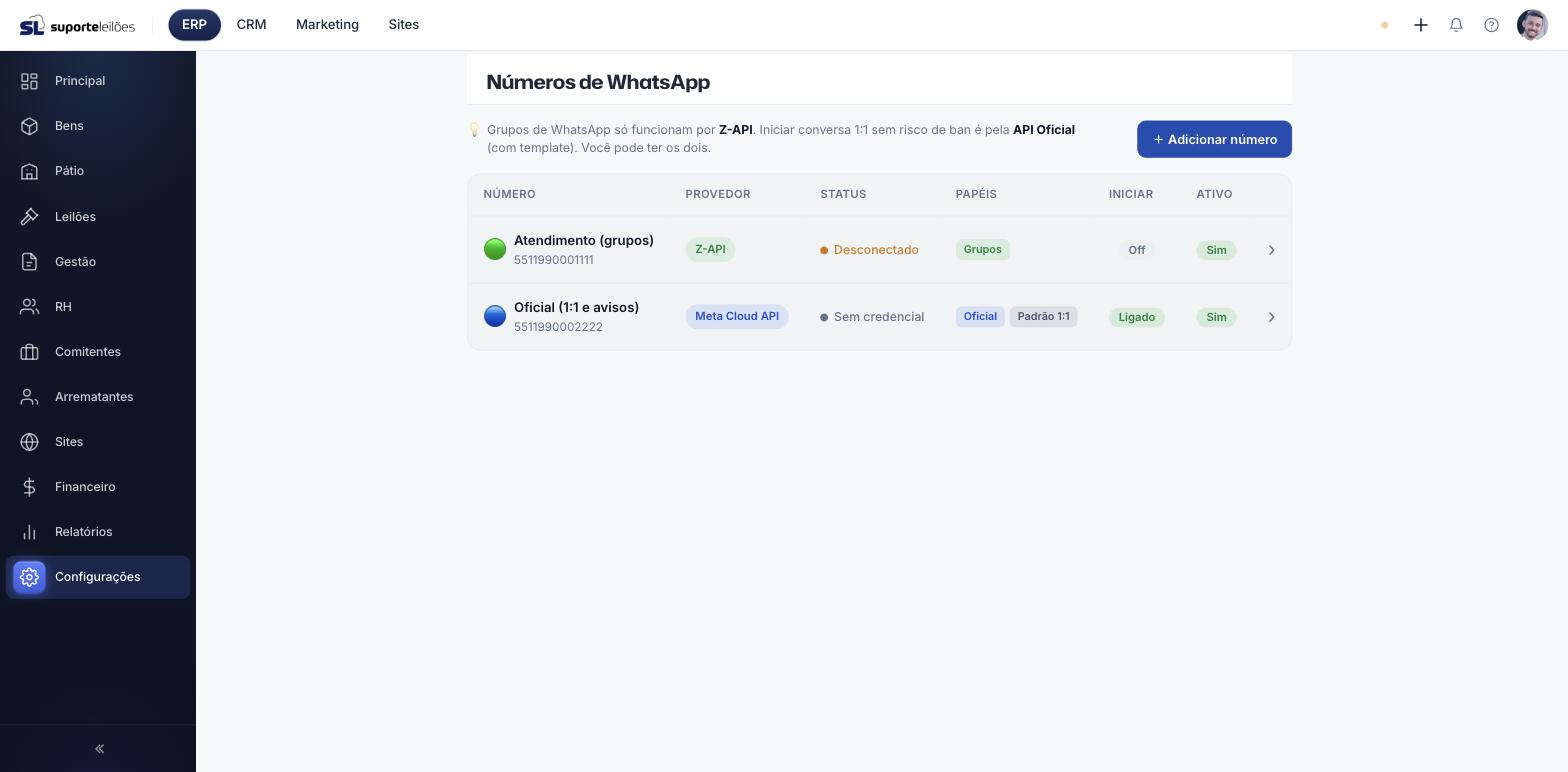
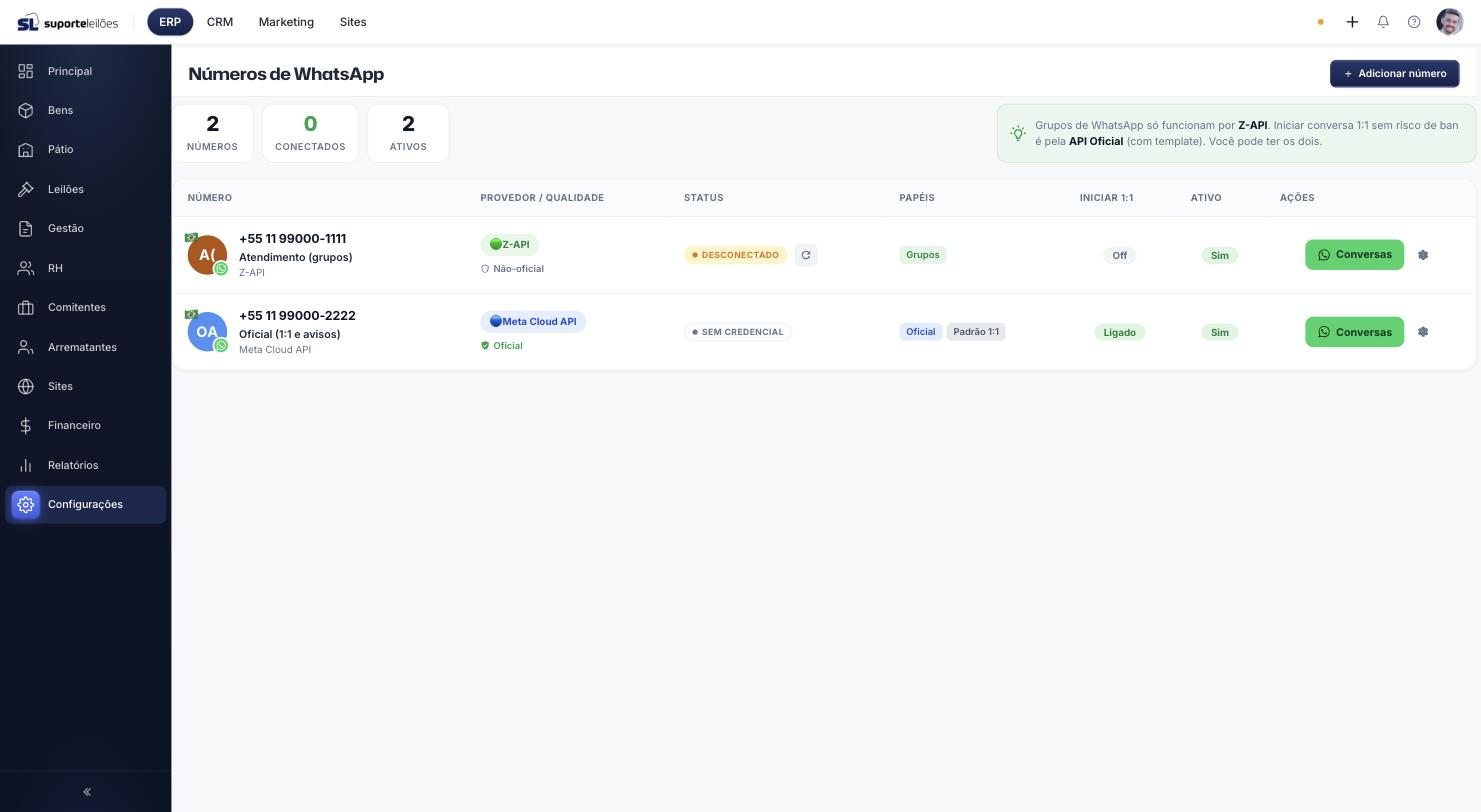
docs(crm): WhatsApp Web + Add-ons + Aprovadores do bot (com prints)
- crm-configuracoes-whatsapp: lista redesenhada + nova secao "Conversas do
  numero (WhatsApp Web)" com modo simulacao e casos de uso (prints novos).
- crm-configuracoes-bot-addons (NOVO): add-ons estilo MCP; tipos HTTP/ia-worker/
  nativo; passo a passo HTTP + caso "Consulta CEP" (ViaCEP); atribuicao a grupos/
  numeros.
- crm-configuracoes-bot-aprovadores (NOVO): fluxo aprovar <token>, permissao
  exclusiva CRM_BOT_APROVADOR_GERIR.
- _interno/console-bot-operacional: prints (aprovadores, add-ons, HTTP) + casos de
  uso (leitura na hora / escrita com aprovacao).

diff --git a/docs/crm/crm-configuracoes-bot-addons.md b/docs/crm/crm-configuracoes-bot-addons.md
@@ -1,0 +1,91 @@
+---
+title: Add-ons do bot
+sidebar_position: 9
+---
+
+# Add-ons do bot
+
+Os **add-ons** dão **capacidades extras** ao bot de atendimento — no estilo de "plugins/MCP". Cada add-on acrescenta uma ou mais **ferramentas** que o bot pode usar durante uma conversa (ex.: consultar um CEP, um rastreio, uma API própria da empresa). Você configura tudo **sem escrever código**.
+
+## Como acessar
+
+**ERP** → **Configurações** → **Integrações** → **Add-ons do bot**.
+
+![Lista de add-ons do bot](/img/manual/crm/bot-addons-lista.jpg)
+
+A lista mostra, por add-on: o **nome**, o **tipo**, o **escopo**, quantas **atribuições** ele tem (grupos/números onde está ativo) e se está **ativo**.
+
+## O que é um add-on
+
+Pense no bot como um atendente que, por padrão, sabe conversar e consultar o que já existe no sistema. Um **add-on** ensina uma **habilidade nova** a esse atendente. Quando um cliente pergunta algo que a habilidade cobre, o bot **usa a ferramenta** do add-on, pega o resultado e responde naturalmente.
+
+### Tipos de add-on
+
+| Tipo | O que faz |
+|---|---|
+| **HTTP (integração externa)** | Chama uma **API externa** (ou interna) que você configura: URL, método, cabeçalhos e parâmetros. **Sem código.** É o tipo mais usado. |
+| **ia-worker (operação)** | Consulta a **operação/infraestrutura** via agente. **Exclusivo da gerência** (não aparece para leiloeiros). |
+| **Nativo** | Ferramenta **embutida** no sistema (feita por código pela nossa equipe). |
+
+### Escopo: global × gerência
+
+- **Global (ERP + leiloeiros):** o add-on vale para os leiloeiros também. Use para habilidades úteis a qualquer negócio (consultar CEP, rastreio, etc.).
+- **Gerência (exclusivo nosso):** só funciona no ambiente da gerência. Use para coisas internas da nossa operação.
+
+:::info Um add-on só age onde é atribuído
+Depois de criado, o add-on fica **inerte** até você **atribuí-lo** a um ou mais **grupos/números** de WhatsApp. É a atribuição que "liga" a habilidade naquele canal.
+:::
+
+## Criar um add-on HTTP (passo a passo)
+
+Clique em **Novo add-on**. Vamos usar um exemplo real: um add-on que **consulta um CEP** pela API pública [ViaCEP](https://viacep.com.br).
+
+![Novo add-on HTTP — Consulta CEP](/img/manual/crm/bot-addons-http.jpg)
+
+1. **Nome:** um rótulo para você (ex.: `Consulta CEP`).
+2. **Tipo:** **HTTP (integração externa)**.
+3. **Escopo:** **Global** (serve para qualquer leiloeiro).
+4. **Ferramenta (o que o bot enxerga):**
+   - **Nome da ferramenta:** um identificador técnico, em minúsculas com `_` (ex.: `consultar_cep`). É por esse nome que o bot "chama" a habilidade.
+   - **Descrição (quando o bot deve usar):** explique em linguagem clara **quando** usar — o bot decide com base nisso (ex.: *"Consulta o endereço (rua, bairro, cidade, UF) a partir de um CEP usando a API pública ViaCEP."*).
+5. **Chamada HTTP:**
+   - **URL:** o endereço da API. Use **`{param}`** para interpolar valores que o bot preenche. Ex.: `https://viacep.com.br/ws/{cep}/json/`
+   - **Método:** `GET` (para consultas). `POST`/`PUT`/`PATCH` quando for enviar dados.
+   - **Cabeçalhos:** pares chave/valor (ex.: `Authorization: Bearer ...`) — para APIs que exigem autenticação. No exemplo do CEP não é preciso.
+   - **Parâmetros (o bot preenche):** liste cada valor que a ferramenta aceita — **nome** (ex.: `cep`), **tipo** (string/number/boolean), se é **obrigatório** e uma **descrição**. O nome do parâmetro é o que casa com o `{param}` da URL.
+   - **Body (JSON, opcional):** para `POST`/`PUT`, o corpo da requisição, também com `{param}` (ex.: `{"codigo": "{codigo}"}`).
+6. Clique em **Salvar**.
+
+:::tip Interpolação
+Onde você escreve `{cep}` na URL (ou no body), o bot substitui pelo valor do **parâmetro** de mesmo nome que ele preencheu a partir da conversa.
+:::
+
+### Atribuir a grupos/números
+
+Depois de salvar, aparece a seção **Atribuições**. Escolha **Grupo** ou **Número**, selecione qual e clique em **Atribuir**. A partir daí o bot passa a oferecer aquela habilidade **naquele canal**. Remova a atribuição a qualquer momento pelo **✕** na etiqueta.
+
+## Caso de uso completo — "Consulta CEP"
+
+1. Você cria o add-on `Consulta CEP` (HTTP, global) com a ferramenta `consultar_cep`, URL `https://viacep.com.br/ws/{cep}/json/`, parâmetro `cep` (string, obrigatório).
+2. Atribui ao **número/grupo** de atendimento.
+3. No WhatsApp, o cliente escreve: *"qual o endereço do CEP 01001-000?"*.
+4. O bot entende, chama `consultar_cep` com `cep=01001000`, recebe o JSON da ViaCEP e responde: *"Esse CEP é da Praça da Sé, Sé — São Paulo/SP."*
+
+## Regras de negócio
+
+- Um add-on **sem atribuição** não faz nada — precisa estar ligado a um grupo/número.
+- Add-ons **HTTP** e **globais** valem para leiloeiros; **ia-worker** e **gerência** são exclusivos da nossa operação.
+- O **Body** precisa ser um **JSON válido** — o sistema recusa salvar se estiver malformado.
+- **Nome da ferramenta** e **URL** são obrigatórios no tipo HTTP.
+
+## Erros comuns
+
+- **"body_template não é um JSON válido"** — revise o JSON do campo Body (aspas, vírgulas).
+- **O bot não usa a ferramenta** — a **descrição** está vaga; deixe claro *quando* usar. Confira também se o add-on está **ativo** e **atribuído** ao canal certo.
+- **A API externa recusa a chamada** — falta um **cabeçalho** de autenticação, ou a URL/parâmetro estão errados.
+
+## Veja também
+
+- [WhatsApp — números, provedores e guardrail](./crm-configuracoes-whatsapp.md)
+- [Aprovadores do bot](./crm-configuracoes-bot-aprovadores.md)
+- [Chatbot](./crm-configuracoes-chatbot.md)

diff --git a/docs/crm/crm-configuracoes-whatsapp.md b/docs/crm/crm-configuracoes-whatsapp.md
@@ -13,7 +13,15 @@ Esta tela é onde você conecta os **números de WhatsApp** do seu negócio ao C
 
 ![Números de WhatsApp](/img/manual/crm/whatsapp-numeros.jpg)
 
-Cada linha mostra o **número**, o **provedor**, o **status** da conexão, os **papéis**, se ele pode **iniciar** conversas e se está **ativo**.
+A tela ocupa a largura toda e mostra, no topo, um resumo rápido (**quantos números**, quantos **conectados** e quantos **ativos**). Cada linha traz:
+
+- o **avatar** do número com o selo do WhatsApp e a bandeira do país;
+- o **telefone** em destaque, o **nome** interno e o **provedor**;
+- o **provedor / qualidade** (oficial × não-oficial);
+- o **status** da conexão (verde **Conectado**, âmbar **Desconectado**, cinza **Sem credencial**);
+- os **papéis** (grupos / oficial / padrão 1:1);
+- se pode **iniciar** conversas 1:1 e se está **ativo**;
+- os botões de **ação**: **Conversas** (abre o "WhatsApp Web" do número — veja abaixo) e a engrenagem para **editar**.
 
 ## A ideia central: número oficial × não-oficial
 
@@ -80,8 +88,48 @@ Cada número tem um **webhook exclusivo**. Você cola essa URL no painel do prov
 - "Desconectado" na Z-API costuma significar que falta **escanear o QR code**; "Sem credencial" no oficial significa que faltam as chaves da Meta.
 - Não ligue "Permitir iniciar conversa" num número não-oficial para disparo em massa — é o caminho mais rápido para o banimento.
 
+## Conversas do número (WhatsApp Web)
+
+Cada número tem uma tela de **conversas no estilo do WhatsApp Web**, para você **ver e responder** as mensagens daquele número direto do ERP — sem abrir o celular. Clique no botão **Conversas** na linha do número.
+
+![WhatsApp Web do número — lista de conversas e conversa aberta](/img/manual/crm/whatsapp-web.jpg)
+
+A tela tem duas colunas, igual ao WhatsApp Web:
+
+- **À esquerda**, a **lista de conversas**: foto, nome/telefone do contato, prévia da última mensagem, horário e o **contador de não lidas**. No topo há a **busca** por nome ou número.
+- **À direita**, a **conversa aberta**: cabeçalho com o contato, o **histórico** com balões (mensagens recebidas à esquerda, suas à direita), horários e os **tiques de entrega**, e a **barra de digitação** embaixo (emoji, anexo e o botão de enviar).
+
+Para responder, é só **digitar e apertar Enter** (ou o botão verde de enviar). A mensagem sai pelo **mesmo número** que recebeu a conversa.
+
+:::tip Quem pode acessar
+A tela de conversas fica disponível para qualquer usuário do ERP (perfil colaborador). O envio usa o número da própria conversa, respeitando o provedor configurado.
+:::
+
+### Modo simulação (para testar sem conectar)
+
+Quando um número **ainda não tem uma conexão real** de WhatsApp (sem credenciais válidas), a tela entra em **modo simulação** — sinalizado por uma faixa amarela no topo:
+
+> 🧪 **Modo simulação** — este número não tem uma conexão real de WhatsApp, então as conversas são de exemplo e **nada é enviado de verdade**.
+
+Nesse modo você vê **conversas de exemplo** e pode **testar o envio**: sua mensagem aparece no histórico e o "contato" responde com uma mensagem automática — tudo **local**, sem nenhuma chamada externa. É ideal para conhecer a tela e treinar a equipe.
+
+Assim que o número recebe **credenciais válidas** (Z-API conectada ou API Oficial configurada), ele passa **automaticamente** para o **modo real**: as conversas passam a ser as de verdade e o envio vai para o WhatsApp do contato. **Não há botão para "ligar" o envio real** — é o próprio provedor conectado que define o modo, o que evita disparo acidental durante testes.
+
+:::info Como funciona o interruptor (resumo)
+- **Sem credencial usável no número → simulação** (conversas de exemplo, envio só local).
+- **Com credencial usável → real** (conversas reais, envio de verdade).
+:::
+
+### Casos de uso
+
+- **Responder um cliente na hora:** o arrematante mandou uma dúvida no WhatsApp; o atendente abre **Conversas** do número, lê o histórico e responde sem sair do ERP.
+- **Acompanhar vários números:** com um número para grupos (Z-API) e outro oficial (avisos), cada um tem sua própria caixa de conversas separada.
+- **Treinar a equipe:** em um número novo (ainda sem conexão), use o **modo simulação** para praticar o atendimento antes de conectar de verdade.
+
 ## Veja também
 
+- [Add-ons do bot](./crm-configuracoes-bot-addons.md) — dar novas capacidades ao bot (integrações HTTP sem código).
+- [Aprovadores do bot](./crm-configuracoes-bot-aprovadores.md) — quem pode autorizar operações sensíveis.
 - [Integrações externas](./crm-configuracoes-integracoes-config.md) — chaves dos serviços (e-mail, IA, SMS).
 - [Chatbot](./crm-configuracoes-chatbot.md)
 - [Biblioteca de mensagens](./crm-biblioteca-mensagens.md) — templates usados nos disparos.

diff --git a/docs/crm/crm-configuracoes-bot-aprovadores.md b/docs/crm/crm-configuracoes-bot-aprovadores.md
@@ -1,0 +1,64 @@
+---
+title: Aprovadores do bot
+sidebar_position: 10
+---
+
+# Aprovadores do bot
+
+Alguns pedidos feitos ao bot em um **grupo de WhatsApp** são **sensíveis** — operações de **escrita** ou **destrutivas**. Em vez de executar na hora, o bot **enfileira** e pede uma **autorização humana**. Os **aprovadores** são as pessoas que podem dar essa autorização.
+
+## Como acessar
+
+**ERP** → **Configurações** → **Integrações** → **Aprovadores do bot**.
+
+![Aprovadores do bot](/img/manual/crm/bot-aprovadores.jpg)
+
+A tela lista quem está cadastrado (nome + WhatsApp), a **situação** (ativo/inativo) e permite **adicionar** e **remover**.
+
+## Para que serve
+
+O bot pode ser configurado com habilidades que **alteram** algo (ver [Add-ons do bot](./crm-configuracoes-bot-addons.md)). Por segurança, quando o pedido é de **escrita**, o bot **não executa sozinho**: ele responde no grupo com um **token** e espera alguém autorizado confirmar.
+
+O fluxo, no grupo, é assim:
+
+1. Alguém pede uma operação sensível ao bot.
+2. O bot **bloqueia** e responde, por exemplo:
+   > ⚠ *Ação sensível bloqueada* (exige aprovação): responda **aprovar A1B2**
+3. Um **aprovador** responde no grupo: `aprovar A1B2`.
+4. O sistema confere se **quem respondeu está na lista de aprovadores** (pelo número de WhatsApp). Se estiver, a operação é executada; se não, é recusada.
+
+É por isso que o telefone cadastrado precisa ser **exatamente o número de WhatsApp** que a pessoa usa no grupo — é por ele que o sistema reconhece a aprovação.
+
+## Cadastrar um aprovador
+
+1. Informe o **Nome** e o **WhatsApp (com DDD)** — ex.: `5538999160908`.
+2. Clique em **Adicionar aprovador**.
+3. A pessoa aparece na lista como **Ativa**. Você pode **desativar** (mantém o cadastro, mas ela deixa de poder aprovar) ou **remover**.
+
+:::danger Antes de depender do fluxo de aprovação
+Cadastre pelo menos **um** aprovador (o ideal é o seu próprio WhatsApp). Sem nenhum aprovador ativo, o `aprovar <token>` sempre responde "não autorizado" e a operação nunca é executada.
+:::
+
+## Permissão exclusiva
+
+Gerenciar aprovadores é uma ação **protegida por uma permissão própria**: **`CRM_BOT_APROVADOR_GERIR`** (ou o superusuário). De propósito, **um administrador comum não abre esta tela** nem consegue se auto-adicionar — se qualquer admin pudesse se incluir, o controle não teria valor.
+
+Quem não tem a permissão vê uma tela de **acesso restrito**, explicando qual permissão é necessária.
+
+## Regras de negócio
+
+- Só quem tem **`CRM_BOT_APROVADOR_GERIR`** (ou superusuário) gerencia a lista.
+- A aprovação é reconhecida **pelo número de WhatsApp** — precisa bater com o número que respondeu no grupo.
+- Cada `aprovar <token>` libera **apenas aquela** operação pendente (não é uma autorização geral).
+- Um aprovador **inativo** não consegue aprovar.
+
+## Erros comuns
+
+- **"não autorizado" ao responder `aprovar`** — o número que respondeu não está cadastrado (ou está inativo), ou está diferente do que a pessoa usa no grupo.
+- **Não consigo abrir a tela** — você não tem a permissão `CRM_BOT_APROVADOR_GERIR`. Peça a um superusuário.
+
+## Veja também
+
+- [Add-ons do bot](./crm-configuracoes-bot-addons.md)
+- [WhatsApp — números, provedores e guardrail](./crm-configuracoes-whatsapp.md)
+- [Chatbot](./crm-configuracoes-chatbot.md)

diff --git a/docs/_interno/console/console-bot-operacional.md b/docs/_interno/console/console-bot-operacional.md
@@ -55,6 +55,8 @@ Quando o bot precisa de uma operação de **escrita**, ele **não executa**. Em 
 
 **Configurações → Integrações → Aprovadores do bot.**
 
+![Aprovadores do bot](/img/manual/crm/bot-aprovadores.jpg)
+
 - Cadastre **nome + número de WhatsApp** de cada pessoa que pode aprovar operações sensíveis.
 - É esse número que o sistema reconhece quando alguém responde `aprovar <token>` no grupo.
 - **Permissão exclusiva:** só quem tem a permissão **`CRM_BOT_APROVADOR_GERIR`** (ou o superusuário) gerencia essa lista. De propósito, **um administrador comum não consegue** abrir essa tela nem se auto-adicionar — senão o controle não valeria nada.
@@ -65,11 +67,45 @@ Cadastre o seu próprio WhatsApp como aprovador. Sem isso, o `aprovar <token>` r
 
 ### Add-ons (capacidades do bot)
 
-**Configurações → (Integrações)** — cadastro dos add-ons e **atribuição a grupos/números**:
+**Configurações → Integrações → Add-ons do bot** — cadastro dos add-ons e **atribuição a grupos/números**:
+
+![Lista de add-ons do bot](/img/manual/crm/bot-addons-lista.jpg)
 
 - **`ia_operacao`** (tipo ia-worker, escopo gerência): já criado e atribuído ao grupo interno. Dá o acesso à operação/infra.
 - **Add-on HTTP** (tipo genérico): permite plugar uma integração externa **sem código** — informa URL, método, cabeçalhos e parâmetros, e o bot ganha uma ferramenta nova.
 - Um add-on só age nos **grupos/números** aos quais foi atribuído.
+
+Exemplo de add-on **HTTP** (tela de criação — caso "Consulta CEP" via ViaCEP). O passo a passo detalhado está no manual público de [Add-ons do bot](../../crm/crm-configuracoes-bot-addons.md):
+
+![Novo add-on HTTP — Consulta CEP](/img/manual/crm/bot-addons-http.jpg)
+
+## Casos de uso
+
+### Leitura/diagnóstico (roda na hora)
+
+Pergunta típica no grupo, respondida sem aprovação:
+
+> **Você:** `@Suporte Leilões - Gerência qual o status do espaço em disco do sc5?`
+>
+> **Bot:** `sc5 — disco / em 62% (usado 310G de 500G). /tmp OK. Sem alerta.`
+
+O inspetor (Camada 1) classifica `ssh sc5 "df -h"` como **leitura** e libera. Bom para "status do disco do sc5", "quantos chamados abertos", "últimos logs de erro da API".
+
+### Escrita com aprovação
+
+> **Você:** `@Suporte Leilões - Gerência reinicia o php-fpm da api2`
+>
+> **Bot:** ⚠ *Ação sensível bloqueada* (exige aprovação): `systemctl restart php-fpm` — responda **aprovar A1B2**
+>
+> **Aprovador (número na lista):** `aprovar A1B2`
+>
+> **Bot:** ✅ Executado. `php-fpm` reiniciado na api2.
+
+Se quem responde **não** estiver na lista de aprovadores (Camada 2), o bot recusa e a operação **não roda**.
+
+:::info Onde ver as conversas no ERP
+As conversas de cada número (inclusive as de grupo, quando aplicável) podem ser acompanhadas pela tela de [Conversas do número (WhatsApp Web)](../../crm/crm-configuracoes-whatsapp.md).
+:::
 
 ## Arquitetura técnica (para a equipe)
 
